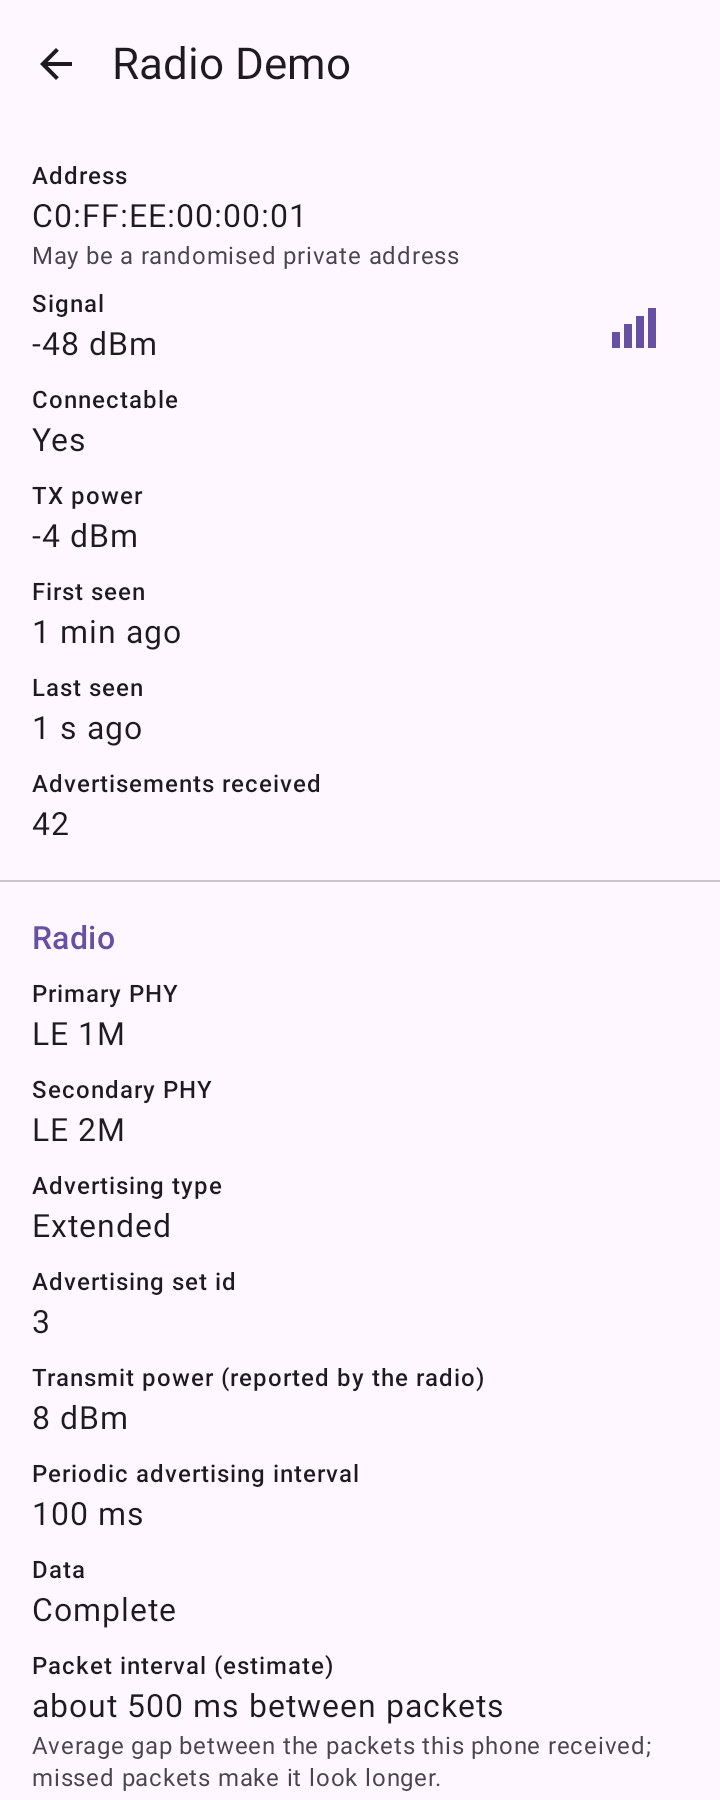
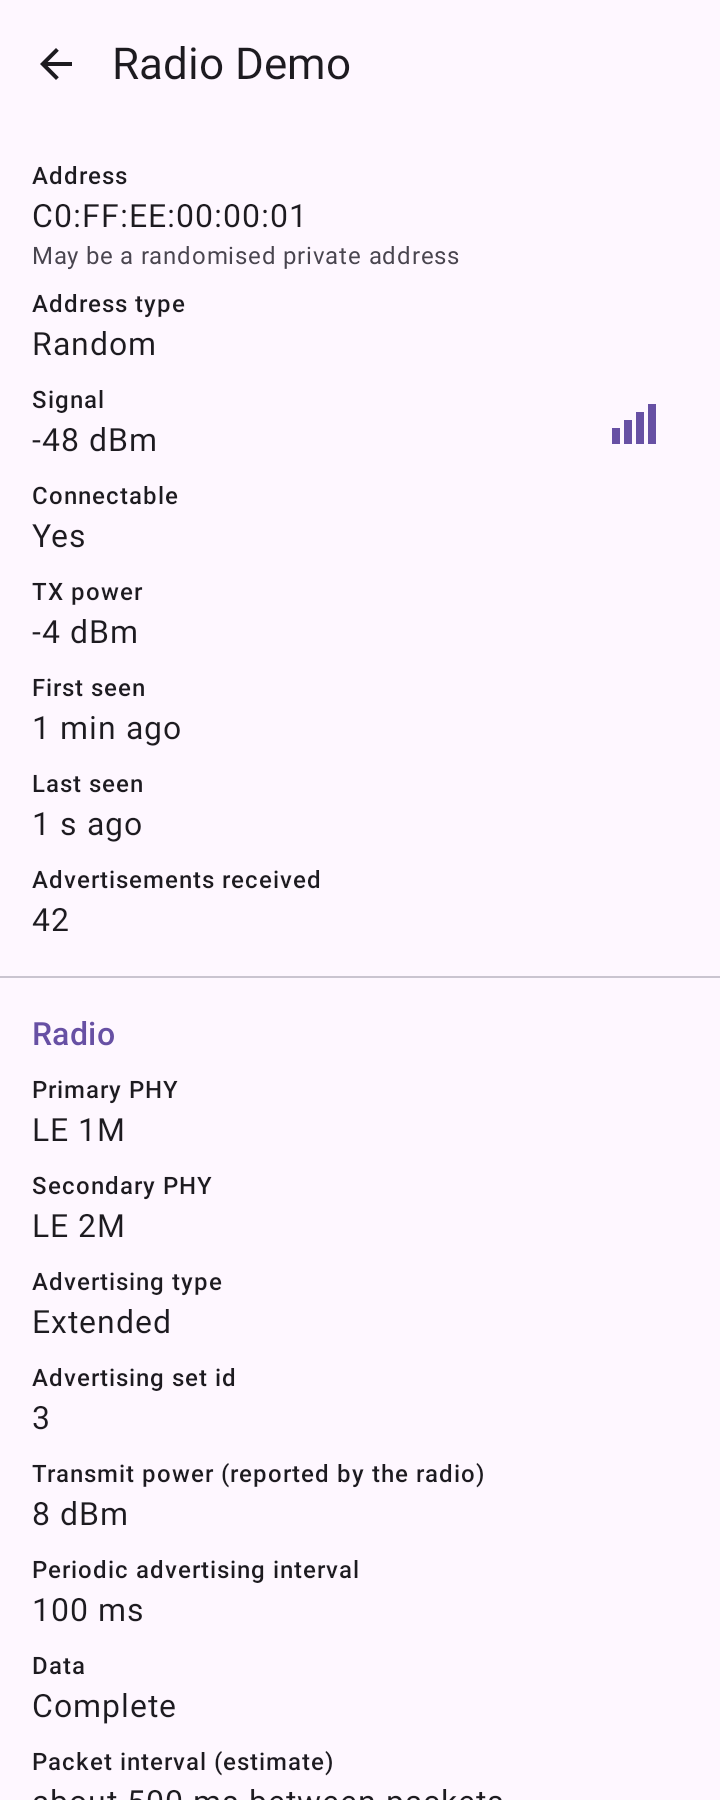
Tier 2a phone findings: read address type from the scan result, class 0 means none
Checked on the Pixel (Android 17): the connect permission is granted silently
when Nearby devices is already allowed; the host controller saw no connection,
device or pairing during the lookups. Two wrong values were found and fixed:
BluetoothDevice.getAddressType() on a device built from an address alone answers
'public' whatever the truth (every neighbour showed Public), so it is removed
from System information and read from the ScanResult device instead (Public for
the host, Random for neighbours), shown in the detail header and needing no
permission (answers spike T1-S1; adds T1-A1). Class value 0 from
getBluetoothClass() means no class and is now reported as absent instead of
'Miscellaneous'. Adds tests, radio scenario address types and a smoke check;
findings recorded in the Tier 1 and Tier 2 plans. Full gate passes. No dependency
or manifest change.

diff --git a/app/src/debug/kotlin/dev/danielhood/btscan/data/ble/fake/Scenarios.kt b/app/src/debug/kotlin/dev/danielhood/btscan/data/ble/fake/Scenarios.kt
@@ -1,13 +1,13 @@
 package dev.danielhood.btscan.data.ble.fake
 
 import dev.danielhood.btscan.domain.model.AdapterState
+import dev.danielhood.btscan.domain.model.AddressType
 import dev.danielhood.btscan.domain.model.Bytes
 import dev.danielhood.btscan.domain.model.DataStatus
 import dev.danielhood.btscan.domain.model.Phy
 import dev.danielhood.btscan.domain.model.RadioInfo
 import dev.danielhood.btscan.domain.model.ScanFailure
 import dev.danielhood.btscan.domain.parser.AdvertisementParser
-import dev.danielhood.btscan.domain.system.AddressType
 import dev.danielhood.btscan.domain.system.BondState
 import dev.danielhood.btscan.domain.system.DeviceClassInfo
 import dev.danielhood.btscan.domain.system.DeviceType
@@ -268,6 +268,7 @@ object Scenarios {
                         address = addr(1),
                         advertisement = advertisement { flags(0x06) },
                         baseRssi = -45,
+                        addressType = AddressType.RANDOM,
                         radio = RadioInfo(Phy.LE_1M, Phy.LE_2M, false, 3, 8, 80, DataStatus.COMPLETE),
                     ),
                     FakeDevice(
@@ -275,6 +276,7 @@ object Scenarios {
                         advertisement = advertisement { flags(0x06) },
                         baseRssi = -57,
                         phaseMs = 100,
+                        addressType = AddressType.PUBLIC,
                         radio = RadioInfo(Phy.LE_CODED, Phy.LE_CODED, false, 1, null, null, DataStatus.COMPLETE),
                     ),
                     FakeDevice(
@@ -282,6 +284,7 @@ object Scenarios {
                         advertisement = advertisement { flags(0x06) },
                         baseRssi = -81,
                         phaseMs = 200,
+                        addressType = AddressType.ANONYMOUS,
                         radio = RadioInfo(Phy.LE_1M, Phy.LE_1M, false, null, 0, null, DataStatus.TRUNCATED),
                     ),
                     FakeDevice(
@@ -290,6 +293,7 @@ object Scenarios {
                         baseRssi = -93,
                         intervalMs = 1000,
                         phaseMs = 300,
+                        addressType = AddressType.RANDOM,
                         radio = RadioInfo(Phy.LE_1M, null, true, null, null, null, null),
                     ),
                     FakeDevice(
@@ -298,6 +302,7 @@ object Scenarios {
                         baseRssi = -69,
                         intervalMs = 100,
                         isConnectable = false,
+                        addressType = AddressType.PUBLIC,
                         radio = RadioInfo(Phy.LE_1M, null, true, null, null, null, null),
                     ),
                 ),
@@ -354,7 +359,6 @@ object Scenarios {
                             bondState = BondState.BONDED,
                             deviceType = DeviceType.DUAL,
                             deviceClass = DeviceClassInfo.of(0x0418),
-                            addressType = AddressType.PUBLIC,
                             cachedUuids =
                                 listOf(0x110B, 0x111E, 0x110E).map { AdvertisementParser.uuidFromShort(it.toLong()) },
                         ),
@@ -365,7 +369,6 @@ object Scenarios {
                             bondState = BondState.NONE,
                             deviceType = DeviceType.LE,
                             deviceClass = null,
-                            addressType = AddressType.RANDOM,
                         ),
                     addr(3) to
                         SystemDeviceInfo(
@@ -374,7 +377,6 @@ object Scenarios {
                             bondState = BondState.BONDING,
                             deviceType = DeviceType.CLASSIC,
                             deviceClass = DeviceClassInfo.of(0x05C0),
-                            addressType = null,
                         ),
                 ),
         )

diff --git a/app/src/main/kotlin/dev/danielhood/btscan/data/ble/android/AndroidSystemDeviceInfoSource.kt b/app/src/main/kotlin/dev/danielhood/btscan/data/ble/android/AndroidSystemDeviceInfoSource.kt
@@ -8,7 +8,6 @@ import android.os.Build
 import dev.danielhood.btscan.domain.model.PermissionState
 import dev.danielhood.btscan.domain.port.PermissionChecker
 import dev.danielhood.btscan.domain.port.SystemDeviceInfoSource
-import dev.danielhood.btscan.domain.system.AddressType
 import dev.danielhood.btscan.domain.system.BondState
 import dev.danielhood.btscan.domain.system.DeviceClassInfo
 import dev.danielhood.btscan.domain.system.DeviceType
@@ -55,15 +54,7 @@ class AndroidSystemDeviceInfoSource(
                     alias = if (Build.VERSION.SDK_INT >= Build.VERSION_CODES.R) alias else null,
                     bondState = bondStateOf(bondState),
                     deviceType = deviceTypeOf(type),
-                    deviceClass = bluetoothClass?.let { DeviceClassInfo.of(it.deviceClass) },
-                    addressType =
-                        if (Build.VERSION.SDK_INT >=
-                            Build.VERSION_CODES.VANILLA_ICE_CREAM
-                        ) {
-                            addressTypeOf(addressType)
-                        } else {
-                            null
-                        },
+                    deviceClass = bluetoothClass?.let { deviceClassOf(it.deviceClass) },
                     cachedUuids = uuids.orEmpty().map { it.uuid },
                 ),
             )
@@ -85,12 +76,10 @@ class AndroidSystemDeviceInfoSource(
             BluetoothDevice.DEVICE_TYPE_DUAL -> DeviceType.DUAL
             else -> DeviceType.UNKNOWN
         }
-
-    private fun addressTypeOf(value: Int): AddressType =
-        when (value) {
-            BluetoothDevice.ADDRESS_TYPE_PUBLIC -> AddressType.PUBLIC
-            BluetoothDevice.ADDRESS_TYPE_RANDOM -> AddressType.RANDOM
-            BluetoothDevice.ADDRESS_TYPE_ANONYMOUS -> AddressType.ANONYMOUS
-            else -> AddressType.UNKNOWN
-        }
 }
+
+/**
+ * Android reports class value 0 for a device whose class it does not know (an LE-only advertiser, observed on the
+ * Pixel); that is "no class", not "Miscellaneous", so it is reported as absent rather than shown as a real class.
+ */
+internal fun deviceClassOf(raw: Int): DeviceClassInfo? = if (raw == 0) null else DeviceClassInfo.of(raw)

diff --git a/app/src/test/kotlin/dev/danielhood/btscan/testing/SampleUi.kt b/app/src/test/kotlin/dev/danielhood/btscan/testing/SampleUi.kt
@@ -10,6 +10,7 @@ import dev.danielhood.btscan.domain.decode.FieldValue
 import dev.danielhood.btscan.domain.decode.Unit
 import dev.danielhood.btscan.domain.decode.decoders.RuuviV5Decoder
 import dev.danielhood.btscan.domain.estimate.DistanceBand
+import dev.danielhood.btscan.domain.model.AddressType
 import dev.danielhood.btscan.domain.model.Advertisement
 import dev.danielhood.btscan.domain.model.Bytes
 import dev.danielhood.btscan.domain.model.DataStatus
@@ -18,7 +19,6 @@ import dev.danielhood.btscan.domain.model.Phy
 import dev.danielhood.btscan.domain.model.RadioInfo
 import dev.danielhood.btscan.domain.model.ScanFailure
 import dev.danielhood.btscan.domain.parser.AdvertisementParser
-import dev.danielhood.btscan.domain.system.AddressType
 import dev.danielhood.btscan.domain.system.BondState
 import dev.danielhood.btscan.domain.system.DeviceClassInfo
 import dev.danielhood.btscan.domain.system.DeviceType
@@ -167,6 +167,7 @@ object SampleDetail {
     val radio =
         thermo.copy(
             name = "Radio Demo",
+            addressType = AddressType.RANDOM,
             radio = RadioInfo(Phy.LE_1M, Phy.LE_2M, false, 3, 8, 80, DataStatus.COMPLETE),
             intervalEstimateMs = 500,
             distanceBand = DistanceBand.ABOUT_ONE_METRE,
@@ -198,7 +199,6 @@ object SampleDetail {
                 bondState = BondState.BONDED,
                 deviceType = DeviceType.DUAL,
                 deviceClass = DeviceClassInfo.of(0x0418),
-                addressType = AddressType.PUBLIC,
                 cachedUuids = listOf(0x110B, 0x111E, 0x180F).map { AdvertisementParser.uuidFromShort(it.toLong()) },
             ),
         )
@@ -212,7 +212,6 @@ object SampleDetail {
                 bondState = BondState.NONE,
                 deviceType = null,
                 deviceClass = null,
-                addressType = null,
             ),
         )
 

diff --git a/app/src/test/kotlin/dev/danielhood/btscan/data/ble/android/AndroidSystemDeviceInfoSourceTest.kt b/app/src/test/kotlin/dev/danielhood/btscan/data/ble/android/AndroidSystemDeviceInfoSourceTest.kt
@@ -5,6 +5,8 @@ import android.app.Application
 import androidx.test.core.app.ApplicationProvider
 import androidx.test.ext.junit.runners.AndroidJUnit4
 import dev.danielhood.btscan.domain.system.BondState
+import dev.danielhood.btscan.domain.system.MajorClass
+import dev.danielhood.btscan.domain.system.MinorClass
 import dev.danielhood.btscan.domain.system.SystemInfoResult
 import kotlinx.coroutines.Dispatchers
 import kotlinx.coroutines.runBlocking
@@ -49,11 +51,10 @@ class AndroidSystemDeviceInfoSourceTest {
 
     @Test
     @Config(sdk = [30])
-    fun `on android 11 no new permission is needed and address type is not reported`() {
+    fun `on android 11 no new permission is needed and the lookup still works`() {
         val permissions = AndroidPermissionChecker(app)
         assertTrue(permissions.connectPermissions.isEmpty())
-        val info = (lookup() as SystemInfoResult.Available).info
-        assertNull("address type needs Android 15", info.addressType)
+        assertTrue(lookup() is SystemInfoResult.Available)
     }
 
     @Test
@@ -61,5 +62,12 @@ class AndroidSystemDeviceInfoSourceTest {
         val permissions = AndroidPermissionChecker(app)
         assertEquals(listOf(Manifest.permission.BLUETOOTH_CONNECT), permissions.connectPermissions)
         assertTrue(Manifest.permission.BLUETOOTH_CONNECT !in permissions.requiredPermissions)
+    }
+
+    @Test
+    fun `class value zero means no class and a real class is decoded`() {
+        assertNull("0 is how Android says it has no class", deviceClassOf(0))
+        assertEquals(MinorClass.HEADPHONES, deviceClassOf(0x0418)?.minor)
+        assertEquals(MajorClass.UNCATEGORIZED, deviceClassOf(0x1F00)?.major)
     }
 }

diff --git a/app/src/test/kotlin/dev/danielhood/btscan/ui/detail/DeviceDetailContentTest.kt b/app/src/test/kotlin/dev/danielhood/btscan/ui/detail/DeviceDetailContentTest.kt
@@ -327,7 +327,6 @@ class DeviceDetailContentTest {
         rule.onNodeWithTag(TestTags.SYSTEM_BOND_STATE).assertTextEquals("Paired")
         rule.onNodeWithTag(TestTags.SYSTEM_TYPE).assertTextEquals("Dual-mode (Classic and Low Energy)")
         rule.onNodeWithTag(TestTags.SYSTEM_CLASS).assertTextEquals("Audio or video: Headphones")
-        rule.onNodeWithTag(TestTags.SYSTEM_ADDRESS_TYPE).assertTextEquals("Public")
         rule
             .onNodeWithTag(
                 TestTags.systemUuid(0),
@@ -347,7 +346,18 @@ class DeviceDetailContentTest {
         rule.onNodeWithTag(TestTags.SYSTEM_TYPE).assertTextEquals("Not available")
         rule.onNodeWithTag(TestTags.SYSTEM_CLASS).assertTextEquals("Not available")
         rule.onNodeWithTag(TestTags.SYSTEM_BOND_STATE).assertTextEquals("Not paired")
-        rule.onNodeWithTag(TestTags.SYSTEM_ADDRESS_TYPE).assertDoesNotExist()
         rule.onNodeWithText("None cached").assertExists()
+    }
+
+    @Test
+    fun `the address type from the scan result is shown with the address`() {
+        show(SampleDetail.loaded(SampleDetail.radio))
+        rule.onNodeWithTag(TestTags.DETAIL_ADDRESS_TYPE).assertTextEquals("Random")
+    }
+
+    @Test
+    fun `no address type is shown when the platform could not report one`() {
+        show(SampleDetail.loaded())
+        rule.onNodeWithTag(TestTags.DETAIL_ADDRESS_TYPE).assertDoesNotExist()
     }
 }

diff --git a/app/src/main/kotlin/dev/danielhood/btscan/ui/detail/DeviceDetailUiState.kt b/app/src/main/kotlin/dev/danielhood/btscan/ui/detail/DeviceDetailUiState.kt
@@ -3,6 +3,7 @@ package dev.danielhood.btscan.ui.detail
 import dev.danielhood.btscan.domain.decode.Decoded
 import dev.danielhood.btscan.domain.estimate.DistanceBand
 import dev.danielhood.btscan.domain.estimate.Estimates
+import dev.danielhood.btscan.domain.model.AddressType
 import dev.danielhood.btscan.domain.model.BleDevice
 import dev.danielhood.btscan.domain.model.RadioInfo
 import dev.danielhood.btscan.domain.parser.AdFlag
@@ -47,6 +48,8 @@ data class DeviceDetailUi(
     val rawHex: String,
     val decoded: List<Decoded> = emptyList(),
     val radio: RadioInfo? = null,
+    /** How the address was formed (from the scan result; Android 15 and later); null when unknown. */
+    val addressType: AddressType? = null,
     /** Estimated average milliseconds between received packets; null until enough packets were seen. */
     val intervalEstimateMs: Long? = null,
     /** Rough distance band; null unless the device advertises a calibrated reference power. */
@@ -127,6 +130,7 @@ internal fun BleDevice.toDetailUi() =
         rawHex = rawBytes.toHex(" "),
         decoded = decoded,
         radio = radio,
+        addressType = addressType,
         intervalEstimateMs = Estimates.advertisingIntervalMs(this),
         distanceBand = Estimates.distanceBand(this),
     )

diff --git a/app/src/main/kotlin/dev/danielhood/btscan/ui/detail/SystemInfoSection.kt b/app/src/main/kotlin/dev/danielhood/btscan/ui/detail/SystemInfoSection.kt
@@ -14,8 +14,8 @@ import androidx.compose.ui.res.stringResource
 import androidx.compose.ui.text.font.FontFamily
 import androidx.compose.ui.unit.dp
 import dev.danielhood.btscan.R
+import dev.danielhood.btscan.domain.model.AddressType
 import dev.danielhood.btscan.domain.parser.ServiceUuids
-import dev.danielhood.btscan.domain.system.AddressType
 import dev.danielhood.btscan.domain.system.BondState
 import dev.danielhood.btscan.domain.system.DeviceClassInfo
 import dev.danielhood.btscan.domain.system.DeviceType
@@ -106,9 +106,6 @@ private fun Loaded(info: SystemDeviceInfo) {
     val typeText = info.deviceType?.let { stringResource(typeLabel(it)) } ?: notAvailable
     InfoField(R.string.system_type, typeText, TestTags.SYSTEM_TYPE)
     InfoField(R.string.system_class, classText(info.deviceClass) ?: notAvailable, TestTags.SYSTEM_CLASS)
-    info.addressType?.let {
-        InfoField(R.string.system_address_type, stringResource(addressLabel(it)), TestTags.SYSTEM_ADDRESS_TYPE)
-    }
     Text(stringResource(R.string.system_cached_services), style = MaterialTheme.typography.labelMedium)
     if (info.cachedUuids.isEmpty()) {
         Text(stringResource(R.string.system_none_cached), style = MaterialTheme.typography.bodyMedium)

diff --git a/app/src/test/kotlin/dev/danielhood/btscan/data/ble/fake/FakeScenarioWithRepositoryTest.kt b/app/src/test/kotlin/dev/danielhood/btscan/data/ble/fake/FakeScenarioWithRepositoryTest.kt
@@ -5,6 +5,7 @@ import dev.danielhood.btscan.domain.decode.DecoderId
 import dev.danielhood.btscan.domain.decode.FieldKey
 import dev.danielhood.btscan.domain.decode.FieldValue
 import dev.danielhood.btscan.domain.estimate.Estimates
+import dev.danielhood.btscan.domain.model.AddressType
 import dev.danielhood.btscan.domain.model.DataStatus
 import dev.danielhood.btscan.domain.model.Phy
 import dev.danielhood.btscan.domain.model.ScanFailure
@@ -187,6 +188,9 @@ class FakeScenarioWithRepositoryTest {
             assertNull(coded.txPowerDbm)
             assertEquals(DataStatus.TRUNCATED, byAddress.getValue("03").radio!!.dataStatus)
             assertEquals(true, byAddress.getValue("04").radio!!.isLegacy)
+            assertEquals(AddressType.RANDOM, byAddress.getValue("01").addressType)
+            assertEquals(AddressType.PUBLIC, byAddress.getValue("02").addressType)
+            assertEquals(AddressType.ANONYMOUS, byAddress.getValue("03").addressType)
             assertEquals(500L, Estimates.advertisingIntervalMs(byAddress.getValue("01")))
             assertEquals(1000L, Estimates.advertisingIntervalMs(byAddress.getValue("04")))
             assertEquals(100L, Estimates.advertisingIntervalMs(byAddress.getValue("05")))

diff --git a/app/src/main/kotlin/dev/danielhood/btscan/domain/system/SystemDeviceInfo.kt b/app/src/main/kotlin/dev/danielhood/btscan/domain/system/SystemDeviceInfo.kt
@@ -7,11 +7,10 @@ enum class BondState { NONE, BONDING, BONDED }
 
 enum class DeviceType { CLASSIC, LE, DUAL, UNKNOWN }
 
-enum class AddressType { PUBLIC, RANDOM, ANONYMOUS, UNKNOWN }
-
 /**
  * What Android itself knows about a device, read without contacting it. Every field is null when the system has no
- * value: nothing is guessed or filled in.
+ * value: nothing is guessed or filled in. (The address type is deliberately not here: asked of a device made from just
+ * an address, Android answers "public" whatever the truth, so it is read from the scan result instead.)
  */
 data class SystemDeviceInfo(
     /** The name the system holds; may differ from the advertised name. */
@@ -21,8 +20,6 @@ data class SystemDeviceInfo(
     val bondState: BondState,
     val deviceType: DeviceType?,
     val deviceClass: DeviceClassInfo?,
-    /** Null on Android versions that cannot report it. */
-    val addressType: AddressType?,
     /** Service UUIDs Android last learned; may be stale or empty. */
     val cachedUuids: List<UUID> = emptyList(),
 )

diff --git a/app/src/main/kotlin/dev/danielhood/btscan/data/ble/android/AndroidBleScanner.kt b/app/src/main/kotlin/dev/danielhood/btscan/data/ble/android/AndroidBleScanner.kt
@@ -5,6 +5,7 @@ import android.bluetooth.le.ScanCallback
 import android.bluetooth.le.ScanResult
 import android.bluetooth.le.ScanSettings
 import android.content.Context
+import android.os.Build
 import dev.danielhood.btscan.domain.model.Bytes
 import dev.danielhood.btscan.domain.model.RawAdvertisement
 import dev.danielhood.btscan.domain.model.ScanFailure
@@ -81,6 +82,14 @@ class AndroidBleScanner(
             bytes = Bytes(scanRecord?.bytes ?: ByteArray(0)),
             isConnectable = isConnectable,
             timestamp = clock.now(),
+            addressType =
+                if (Build.VERSION.SDK_INT >=
+                    Build.VERSION_CODES.VANILLA_ICE_CREAM
+                ) {
+                    addressTypeOf(device.addressType)
+                } else {
+                    null
+                },
             radio =
                 radioInfoOf(
                     primaryPhy = primaryPhy,

diff --git a/app/src/debug/kotlin/dev/danielhood/btscan/data/ble/fake/Scenario.kt b/app/src/debug/kotlin/dev/danielhood/btscan/data/ble/fake/Scenario.kt
@@ -1,6 +1,7 @@
 package dev.danielhood.btscan.data.ble.fake
 
 import dev.danielhood.btscan.domain.model.AdapterState
+import dev.danielhood.btscan.domain.model.AddressType
 import dev.danielhood.btscan.domain.model.Bytes
 import dev.danielhood.btscan.domain.model.RadioInfo
 import dev.danielhood.btscan.domain.model.ScanFailure
@@ -21,6 +22,8 @@ data class FakeDevice(
     val alternatePayloads: List<Bytes> = emptyList(),
     /** Radio metadata reported with each advertisement; null like most fakes (and legacy-only scanners). */
     val radio: RadioInfo? = null,
+    /** Address type the fake scan result reports; null like a phone older than Android 15. */
+    val addressType: AddressType? = null,
 )
 
 /** Makes the scan throw [kind] once [afterMs] has elapsed (0 = on start). */

diff --git a/app/src/main/kotlin/dev/danielhood/btscan/ui/common/TestTags.kt b/app/src/main/kotlin/dev/danielhood/btscan/ui/common/TestTags.kt
@@ -20,6 +20,7 @@ object TestTags {
     const val BACK_BUTTON = "back_button"
     const val DETAIL_NAME = "detail_name"
     const val DETAIL_ADDRESS = "detail_address"
+    const val DETAIL_ADDRESS_TYPE = "detail_address_type"
     const val DETAIL_RSSI = "detail_rssi"
     const val DETAIL_CONNECTABLE = "detail_connectable"
     const val DETAIL_TX_POWER = "detail_tx_power"
@@ -40,7 +41,6 @@ object TestTags {
     const val SYSTEM_BOND_STATE = "system_bond_state"
     const val SYSTEM_TYPE = "system_type"
     const val SYSTEM_CLASS = "system_class"
-    const val SYSTEM_ADDRESS_TYPE = "system_address_type"
     const val OUT_OF_RANGE_BANNER = "out_of_range_banner"
     const val NOT_FOUND_MESSAGE = "not_found_message"
     const val NOT_FOUND_BACK = "not_found_back_button"
